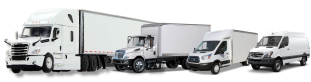
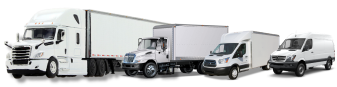
Added styles for main page, background for solutions

diff --git a/dist/css/style.min.css b/dist/css/style.min.css
@@ -221,7 +221,7 @@ body._lock {
   min-height: 100vh;
   justify-content: center;
   align-items: center;
-  padding: 80px 10px 150px 10px;
+  padding: 50px 10px 150px 10px;
   transition: all 0.3s ease;
 }
 .promo_title {
@@ -233,18 +233,19 @@ body._lock {
 }
 .promo_img {
   display: flex;
-  margin-top: 60px;
+  margin-top: 20px;
   justify-content: center;
 }
 .promo_img img {
   height: 200px;
 }
 .promo_descr {
-  margin: 20px auto;
+  margin: 40px auto;
   max-width: 500px;
   font-family: "Poppins", sans-serif;
   font-size: 20px;
   font-weight: 400;
+  line-height: 25px;
   color: #FFFFFF;
   text-align: center;
 }
@@ -315,7 +316,7 @@ body._lock {
     margin-top: 0;
   }
   .promo_img img {
-    height: 100%;
+    height: 90px;
   }
 }
 .about {
@@ -447,14 +448,18 @@ body._lock {
   }
 }
 .solutions {
-  background-color: #f7f7f7;
+  background: fixed;
   padding: 45px 0;
+}
+.solutions .container {
+  width: 1170px;
 }
 .solutions_title {
   font-family: "Raleway", sans-serif;
   font-weight: 400;
   font-size: 36px;
   text-align: center;
+  color: #fff;
 }
 .solutions_subtitle {
   margin-top: 20px;
@@ -462,6 +467,7 @@ body._lock {
   font-weight: 400;
   font-size: 16px;
   text-align: center;
+  color: #fff;
 }
 .solutions_items {
   margin: 45px auto;
@@ -474,7 +480,7 @@ body._lock {
   display: flex;
   flex-direction: column;
   justify-content: space-between;
-  margin: 20px;
+  margin: 20px 10px;
   width: 360px;
   min-height: 450px;
   background-color: #fff;
@@ -548,6 +554,9 @@ body._lock {
   min-height: 100px;
   color: #fff;
 }
+.footer .container {
+  width: 1170px;
+}
 .footer_title {
   text-align: center;
   font-size: 14px;
@@ -575,11 +584,12 @@ body._lock {
 
 @media (max-width: 767.98px) {
   .container {
-    max-width: 479.98;
+    max-width: 479.98px;
   }
 }
 @media (max-width: 575px) {
   .container {
+    max-width: 100%;
     position: relative;
   }
   .footer {

diff --git a/dist/index.html b/dist/index.html
@@ -8,6 +8,9 @@
 	<link rel="preconnect" href="https://fonts.googleapis.com">
 	<link rel="preconnect" href="https://fonts.gstatic.com" crossorigin>
 	<link href="https://fonts.googleapis.com/css2?family=Poppins:wght@300;400;500;600&family=Raleway&display=swap" rel="stylesheet">
+	<!-- Animation -->
+	<link href="https://unpkg.com/aos@2.3.1/dist/aos.css" rel="stylesheet">
+	<!-- Styles -->
 	<link rel="stylesheet" href="css/style.min.css">
 	<title>Sprinterstate</title>
 </head>
@@ -42,8 +45,8 @@
 			<div class="promo_info">
 				<h1 class="promo_title">OVER THE ROAD</h1>
 				<h2 class="promo_descr">Welcome to <span>SPRINTERSTATE</span>, your premier truck company for all your transportation needs! Our company specializes in providing top-of-the-line trucks and exceptional customer service to ensure your transportation needs are met with ease and efficiency.</h2>
-				<div class="promo_img">
-					<img src="img/icons/Group-tracks.svg" alt="Trucks">
+				<div data-aos="fade-left" data-aos-duration="1000" class="promo_img">
+					<img src="svgicons/Group-tracks.svg" alt="Trucks">
 				</div>
 				<a class="button" href="form.html" >GET A FREIGHT QUOTE</a> 
 			</div>
@@ -98,7 +101,7 @@
 			</div>
 		</div>
 	</section>
-	<section class ="solutions">
+	<section class ="solutions" style="background-image: url('img/bg-s.jpeg')">
 		<div class="container">
 			<div class="row">
 				<h3 class="solutions_title">Sprinterstate it is Good solutions for your business!</h3>
@@ -155,6 +158,10 @@
 	</div>
 </footer>
 	<script src="https://kit.fontawesome.com/fcd158c583.js" crossorigin="anonymous"></script>
+	<script src="https://unpkg.com/aos@2.3.1/dist/aos.js"></script>
+	<script>
+		AOS.init();
+	 </script>
 	<script src="js/app.min.js"></script>
 </body>
 </html>

diff --git a/src/index.html b/src/index.html
@@ -15,8 +15,8 @@
 			<div class="promo_info">
 				<h1 class="promo_title">OVER THE ROAD</h1>
 				<h2 class="promo_descr">Welcome to <span>SPRINTERSTATE</span>, your premier truck company for all your transportation needs! Our company specializes in providing top-of-the-line trucks and exceptional customer service to ensure your transportation needs are met with ease and efficiency.</h2>
-				<div class="promo_img">
-					<img src="@img/icons/Group-tracks.svg" alt="Trucks">
+				<div data-aos="fade-left" data-aos-duration="1000" class="promo_img">
+					<img src="svgicons/Group-tracks.svg" alt="Trucks">
 				</div>
 				<a class="button" href="form.html" >GET A FREIGHT QUOTE</a> 
 			</div>
@@ -71,7 +71,7 @@
 			</div>
 		</div>
 	</section>
-	<section class ="solutions">
+	<section class ="solutions" style="background-image: url('@img/bg-s.jpeg')">
 		<div class="container">
 			<div class="row">
 				<h3 class="solutions_title">Sprinterstate it is Good solutions for your business!</h3>
@@ -101,6 +101,10 @@
 	</section>
 	@@include('html/footer.html')
 	<script src="https://kit.fontawesome.com/fcd158c583.js" crossorigin="anonymous"></script>
+	<script src="https://unpkg.com/aos@2.3.1/dist/aos.js"></script>
+	<script>
+		AOS.init();
+	 </script>
 	<script src="js/app.min.js"></script>
 </body>
 </html>

diff --git a/src/scss/blocks/_promo.scss b/src/scss/blocks/_promo.scss
@@ -3,7 +3,7 @@
 	min-height: 100vh;
 	justify-content: center;
 	align-items: center;
-	padding: 80px 10px 150px 10px;
+	padding: 50px 10px 150px 10px;
 	transition: all 0.3s ease;
 	&_title {
 		font-size: 50px;
@@ -14,18 +14,19 @@
 	}
 	&_img {
 		display: flex;
-		margin-top: 60px;
+		margin-top: 20px;
 		justify-content: center;
 		img {
 			height: 200px;
 		}
 	}
 	&_descr {
-		margin: 20px auto;
+		margin: 40px auto;
 		max-width: 500px;
 		font-family: 'Poppins', sans-serif;
 		font-size: 20px;
 		font-weight: 400;
+		line-height: 25px;
 		color: #FFFFFF;
 		text-align: center;
 	}
@@ -94,7 +95,7 @@ background-position: center center;
 		&_img {
 			margin-top: 0;
 			img {
-				height: 100%;
+				height: 90px;
 			}				
 		}
 	}

diff --git a/src/scss/blocks/_solutions.scss b/src/scss/blocks/_solutions.scss
@@ -1,11 +1,15 @@
 .solutions {
-	background-color: #f7f7f7;
+	background: fixed;
 	padding: 45px 0;
+	.container{
+		width: $maxWidthContainer;
+	}
 	&_title {
 		font-family: 'Raleway', sans-serif;
 		font-weight: 400;
 		font-size: 36px;
 		text-align: center;
+		color:#fff;
 	}
 	&_subtitle {
 		margin-top: 20px;
@@ -13,6 +17,7 @@
 		font-weight: 400;
 		font-size: 16px;
 		text-align: center;
+		color:#fff;
 	}
 	&_items {
 		margin: 45px auto;
@@ -25,7 +30,7 @@
 		display: flex;
 		flex-direction: column;
 		justify-content: space-between;
-		margin: 20px;
+		margin: 20px 10px;
 		width: 360px;
 		min-height: 450px;
 		background-color: #fff;

diff --git a/dist/form.html b/dist/form.html
@@ -8,6 +8,9 @@
 	<link rel="preconnect" href="https://fonts.googleapis.com">
 	<link rel="preconnect" href="https://fonts.gstatic.com" crossorigin>
 	<link href="https://fonts.googleapis.com/css2?family=Poppins:wght@300;400;500;600&family=Raleway&display=swap" rel="stylesheet">
+	<!-- Animation -->
+	<link href="https://unpkg.com/aos@2.3.1/dist/aos.css" rel="stylesheet">
+	<!-- Styles -->
 	<link rel="stylesheet" href="css/style.min.css">
 	<title>Sprinterstate</title>
 </head>

diff --git a/src/html/head.html b/src/html/head.html
@@ -6,6 +6,9 @@
 	<link rel="preconnect" href="https://fonts.googleapis.com">
 	<link rel="preconnect" href="https://fonts.gstatic.com" crossorigin>
 	<link href="https://fonts.googleapis.com/css2?family=Poppins:wght@300;400;500;600&family=Raleway&display=swap" rel="stylesheet">
+	<!-- Animation -->
+	<link href="https://unpkg.com/aos@2.3.1/dist/aos.css" rel="stylesheet">
+	<!-- Styles -->
 	<link rel="stylesheet" href="css/style.min.css">
 	<title>Sprinterstate</title>
 </head>

diff --git a/src/scss/blocks/_footer.scss b/src/scss/blocks/_footer.scss
@@ -3,6 +3,9 @@
 	background-color: #000;
 	min-height: 100px;
 	color: #fff;
+	.container{
+		width: $maxWidthContainer;
+	}
 	&_title {
 		text-align: center;
 		font-size: 14px;
@@ -31,12 +34,13 @@
 
 @media (max-width: 767.98px) {
 	.container{
-		max-width: 479.98;
+		max-width: 479.98px;
 	}
 }
 
 @media (max-width: 575px) {
 	.container{
+		max-width: 100%;
 		position: relative;
 	}
 	.footer {
